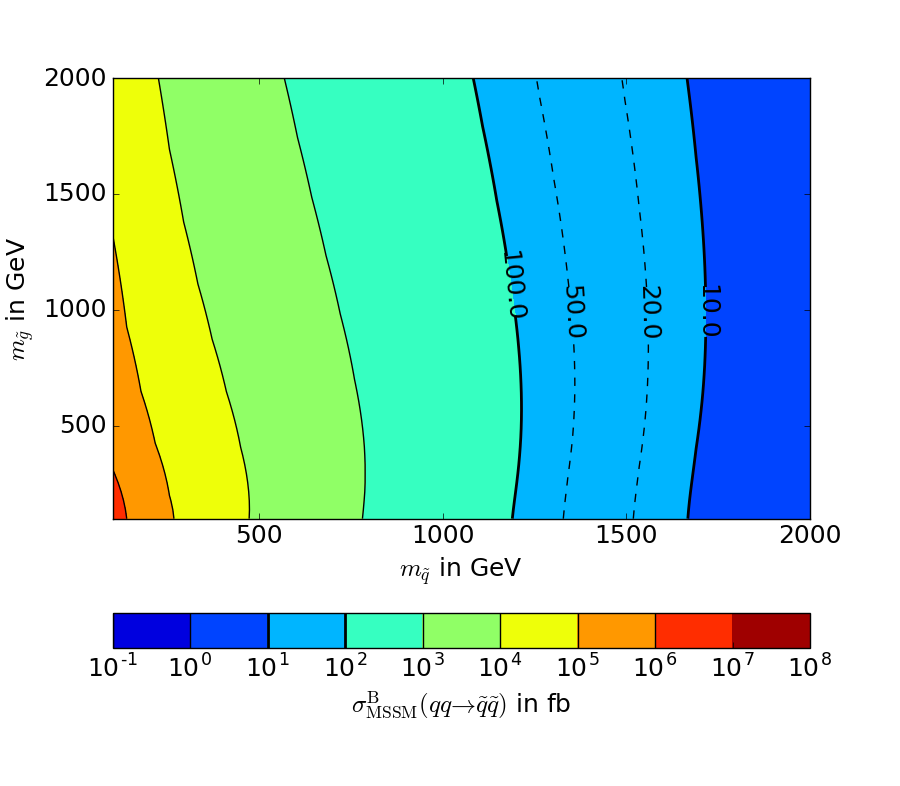
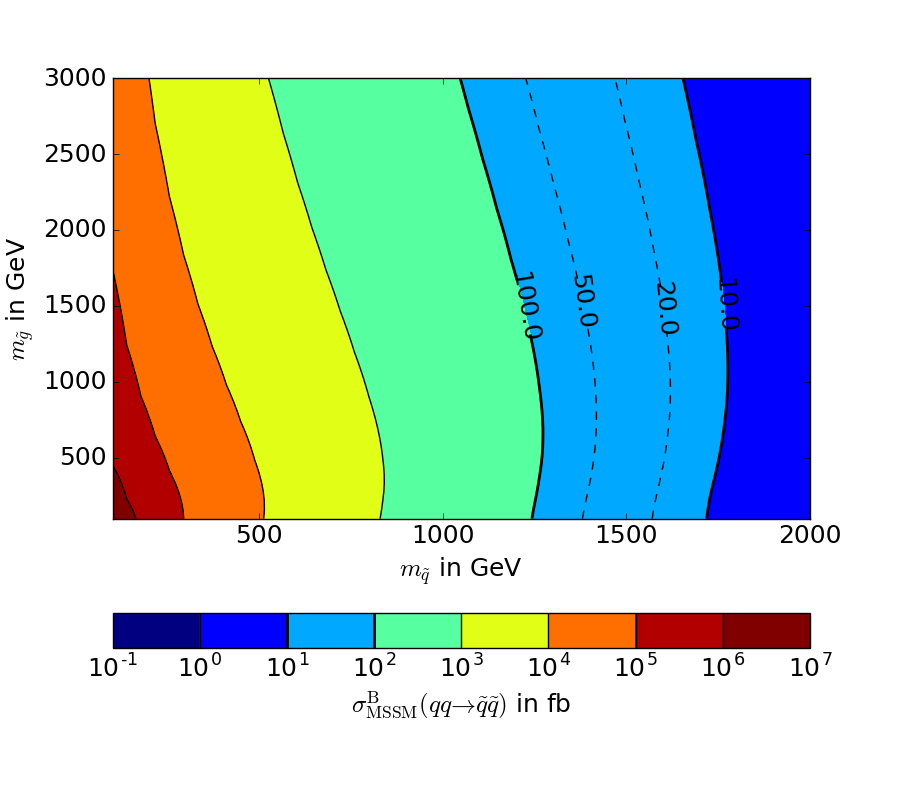
countour plot squark masses MSSM

diff --git a/figures/Contour_Plots/MSSM_TreeLevel_qq_sqsq.py b/figures/Contour_Plots/MSSM_TreeLevel_qq_sqsq.py
@@ -21,12 +21,12 @@ def contourdata():
     """
     
     """
-    mass = np.linspace(100, 2000, num=N)
-    mass = np.linspace(100, 2000, num=N)
+    mass_sq = np.linspace(100, 2000, num=N)
+    mass_glu = np.linspace(100, 3000, num=N)
     # note reverse ordering for yi and xi because of the way   
     # shape works in numpy                                                  
-    sigma = nans((len(mass),len(mass)))  
-    myfile = open('MSSM_1_qqbar_sqsqdagger.txt', 'r') 
+    sigma = nans((len(mass_sq),len(mass_glu)))  
+    myfile = open('MSSM_3_qq_sqsq.txt', 'r') 
     i = 0
     for line in myfile:
         data = line.split()
@@ -35,6 +35,7 @@ def contourdata():
         i += 1   
     myfile.close()
     
+    v = 10**np.linspace(-1, 7, 9, endpoint=True)
     fig = plt.figure(1,figsize=(9, 8)) 
     ax1 = plt.axes()
     font_size = 18
@@ -42,8 +43,8 @@ def contourdata():
     plt.ylabel(r"$m_{\tilde{g}}$ in GeV", size = font_size)
     plt.xticks(fontsize = font_size)
     plt.yticks(fontsize = font_size)
-    cf=ax1.contourf(mass, mass, sigma, norm = LogNorm())
-    levels1 = [0.1, 1, 10**3, 10**4, 10**5, 10**6]
+    cf=ax1.contourf(mass_sq, mass_glu, sigma, v, norm = LogNorm(), vmin=1, vmax =10**6)
+    levels1 = [1, 10**3, 10**4, 10**5, 10**6]
     cl1 = plt.contour(cf, levels=levels1,
                   colors='k',
                   linewidths=(1,),
@@ -59,9 +60,11 @@ def contourdata():
                   linestyles='dashed',
                   linewidths=(1,),
                   hold='on')
-    plt.clabel(cl2, fmt='%2.1f', colors='k', fontsize = font_size)
-    plt.clabel(cl3, fmt='%2.1f', colors='k', fontsize = font_size)
-    cbar = fig.colorbar(cf, orientation='horizontal')
+    manual_locations2 = [(1700.0, 1500.0), (1250.0, 1500.0)]              
+    manual_locations3 = [(1300.0, 1500.0), (1500.0, 1500.0)]              
+    plt.clabel(cl2, fmt='%2.1f', colors='k', fontsize = font_size, manual=manual_locations2)
+    plt.clabel(cl3, fmt='%2.1f', colors='k', fontsize = font_size, manual=manual_locations2)
+    cbar = fig.colorbar(cf, ticks=v, orientation='horizontal')
     cbar.ax.set_xlabel(r'$\sigma^{\mathrm{B}}_{\mathrm{MSSM}}(qq \to \tilde{q}\tilde{q})$ in fb', size = font_size)
     cbar.ax.tick_params(labelsize=font_size)
     cbar.add_lines(cl1)
